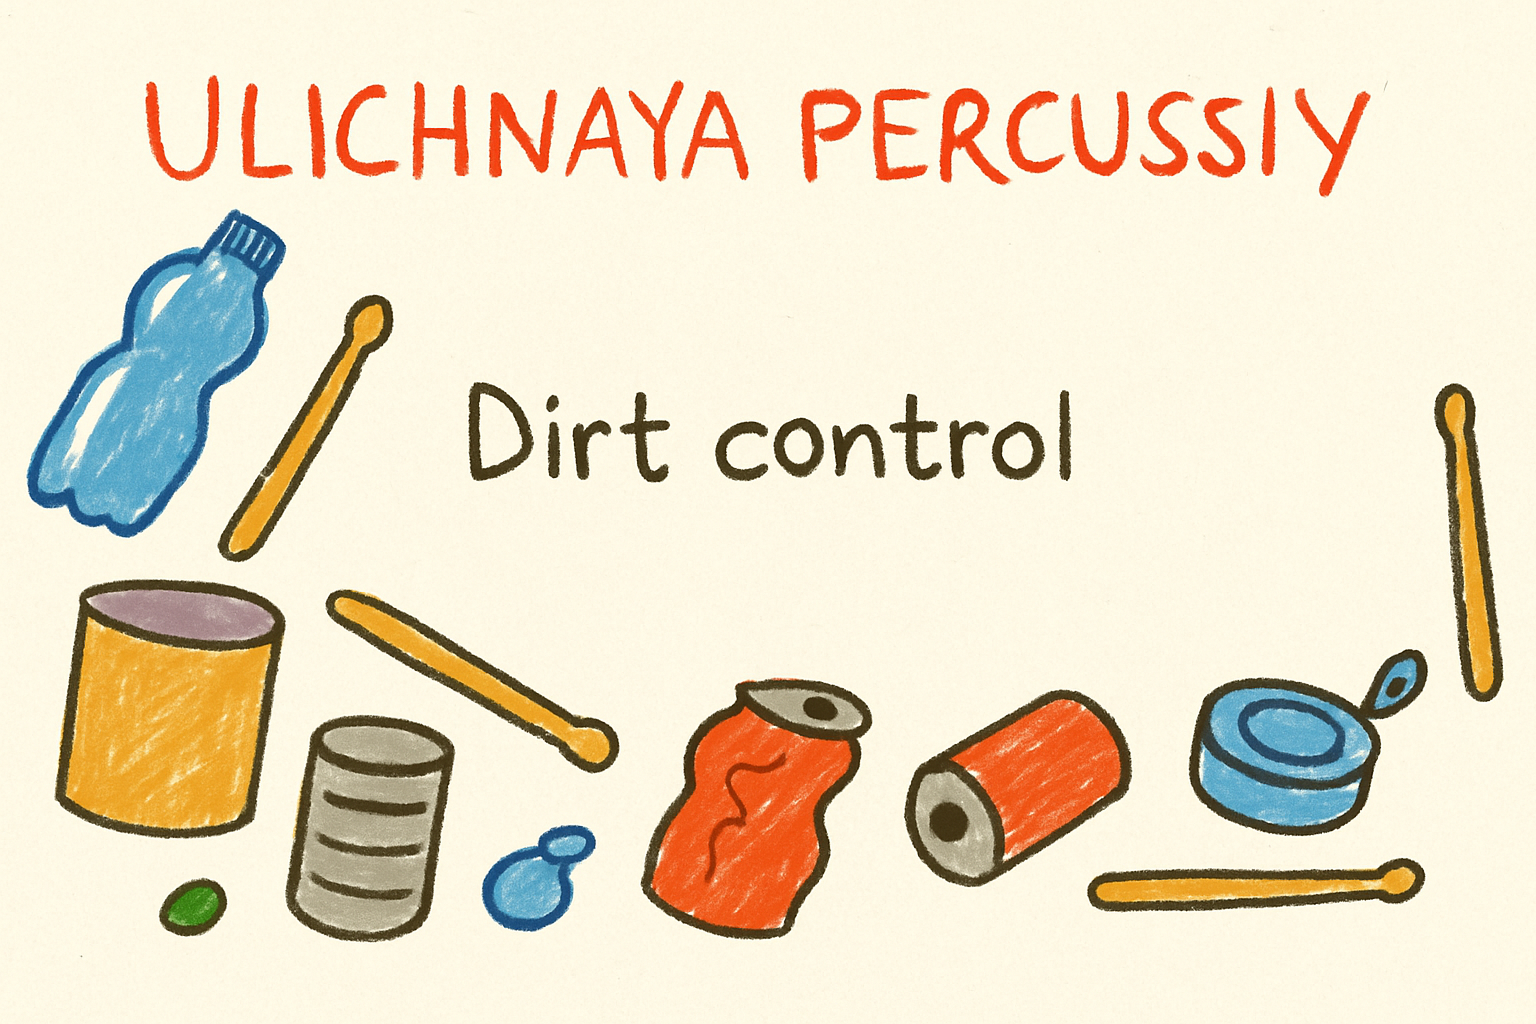
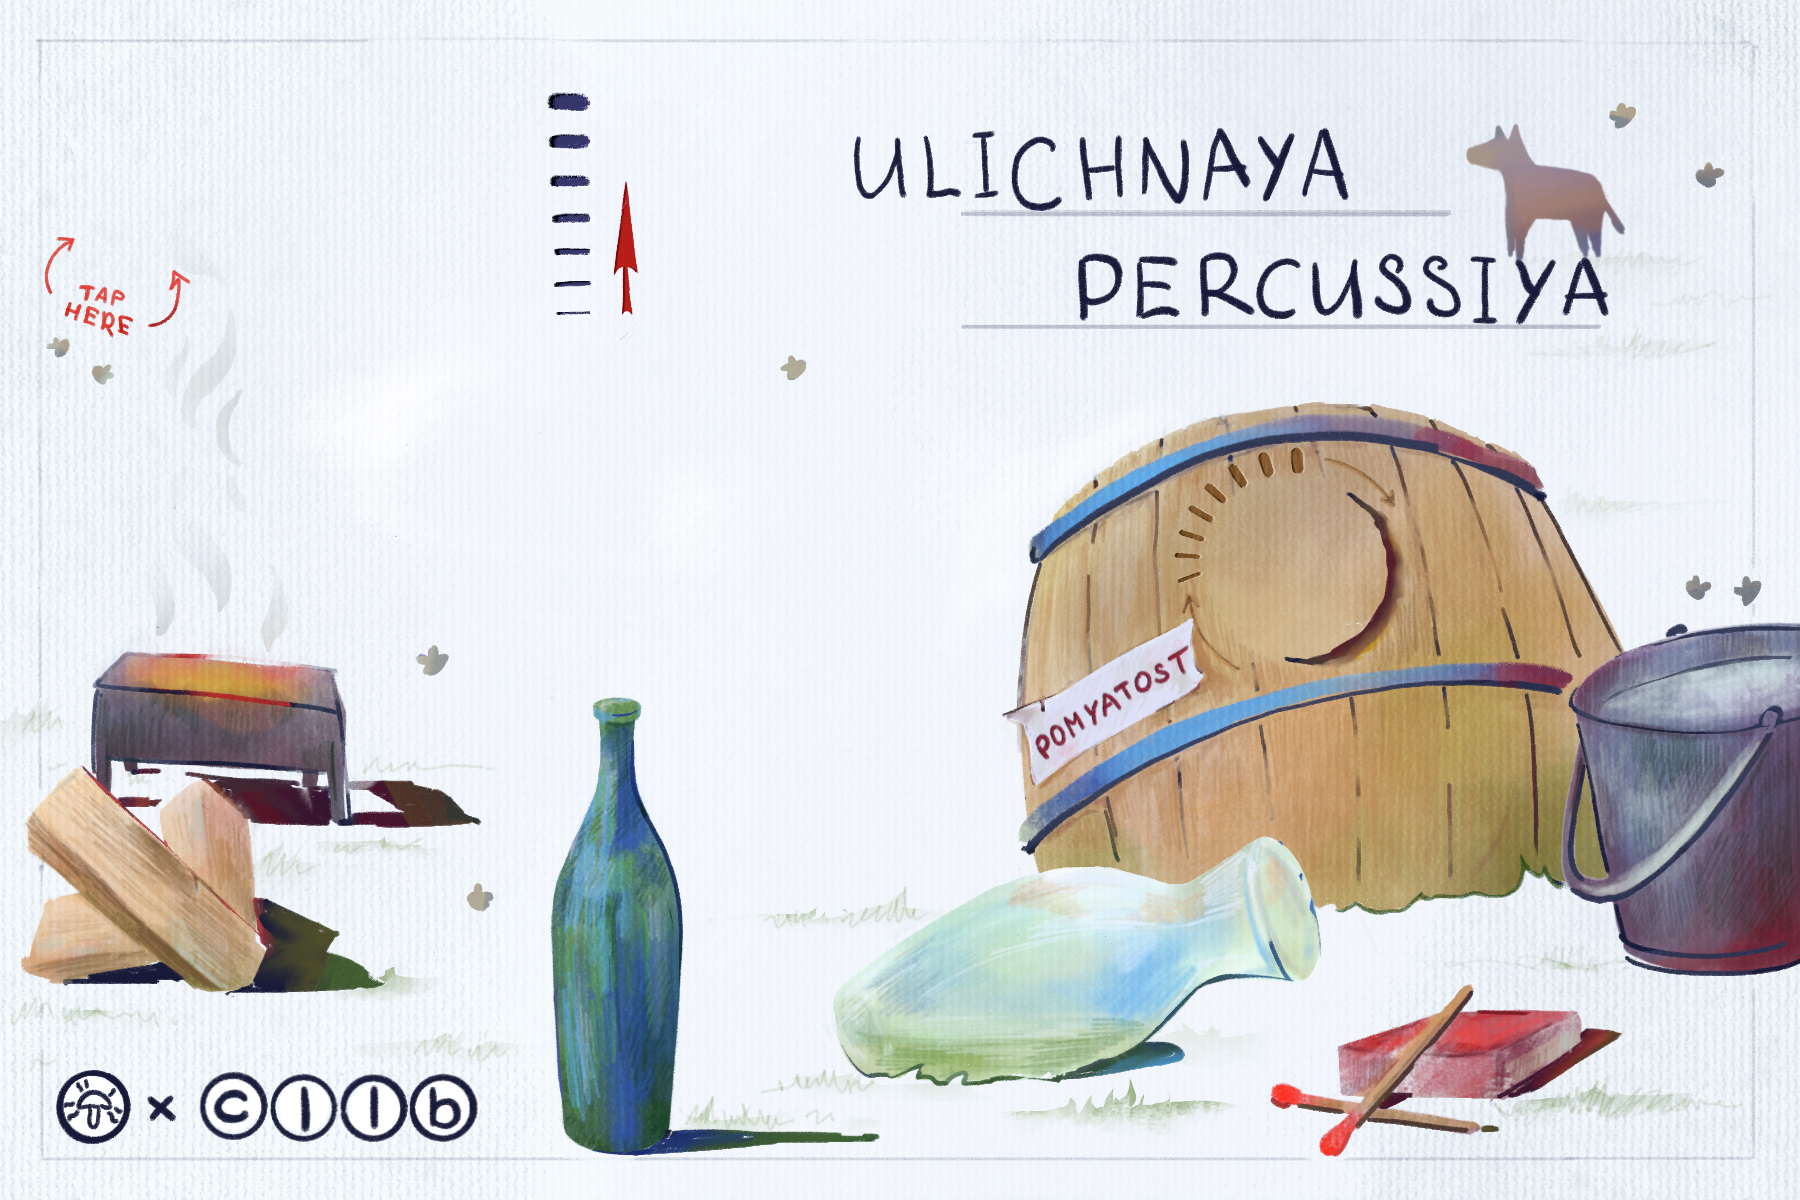
base bpm change

diff --git a/Source/MetaSamplerVoice.cpp b/Source/MetaSamplerVoice.cpp
@@ -78,7 +78,8 @@ void MetaSamplerVoice::startNote(int midiNoteNumber, float velocity,
         adsr.setSampleRate(playbackSR);
         adsr.noteOn();
 
-        // Enable Complex-style warp only for marked sounds, unless host BPM matches original (≈153)
+        // Enable Complex-style warp only for marked sounds, unless host BPM already matches
+        // the active warp base BPM (153 normally, 76.5 for host <= 90).
         const bool warpToggle = (warpEnabledParam != nullptr)
                                 && warpEnabledParam->load(std::memory_order_relaxed);
         const bool bpmIsMoving = (hostBpmMovingParam != nullptr)
@@ -86,8 +87,10 @@ void MetaSamplerVoice::startNote(int midiNoteNumber, float velocity,
         const double hostBpm = (hostBpmParam != nullptr)
                                  ? juce::jmax(1.0, hostBpmParam->load(std::memory_order_relaxed))
                                  : 0.0;
-        const double bpmDiff = std::abs(hostBpm - currentSound->getOriginalBpm());
-        const bool nearOriginalBpm = (hostBpmParam != nullptr && bpmDiff < 0.1); // treat ~153 as "no warp"
+        const double warpBaseBpm = MetaSamplerSound::warpBaseBpmForHost(currentSound->getOriginalBpm(),
+                                                                         hostBpm);
+        const double bpmDiff = std::abs(hostBpm - warpBaseBpm);
+        const bool nearOriginalBpm = (hostBpmParam != nullptr && bpmDiff < 0.1); // treat ~base BPM as "no warp"
 
         isWarping = (currentSound->isWarpEnabled() && hostBpmParam != nullptr && warpToggle && !nearOriginalBpm);
         isRealtimeWarping = false;
@@ -255,7 +258,7 @@ void MetaSamplerVoice::renderNextBlock(juce::AudioBuffer<float>& outputBuffer,
             const double hostBpm = (hostBpmParam != nullptr)
                                      ? juce::jmax(1.0, hostBpmParam->load(std::memory_order_relaxed))
                                      : currentSound->getOriginalBpm();
-            currentTimeRatio = currentSound->getOriginalBpm() / hostBpm;
+            currentTimeRatio = MetaSamplerSound::warpTimeRatioForHost(currentSound->getOriginalBpm(), hostBpm);
             rb->setTimeRatio(currentTimeRatio);
 
             const int initial = 4096;
@@ -295,7 +298,7 @@ void MetaSamplerVoice::renderNextBlock(juce::AudioBuffer<float>& outputBuffer,
     if (isRealtimeWarping && rb && hostBpmParam != nullptr)
     {
         const double hostBpm = juce::jmax(1.0, hostBpmParam->load(std::memory_order_relaxed));
-        const double ratio   = currentSound->getOriginalBpm() / hostBpm; // 153 / host
+        const double ratio   = MetaSamplerSound::warpTimeRatioForHost(currentSound->getOriginalBpm(), hostBpm);
 
         if (std::abs(ratio - currentTimeRatio) > 1e-6)
         {

diff --git a/Source/MetaSamplerSound.cpp b/Source/MetaSamplerSound.cpp
@@ -70,6 +70,22 @@ double MetaSamplerSound::quantizeWarpBpm(double hostBpm) noexcept
     return juce::jmax(1.0, hostBpm);
 }
 
+double MetaSamplerSound::warpBaseBpmForHost(double originalBpm, double hostBpm) noexcept
+{
+    const double safeOriginalBpm = juce::jmax(1.0, originalBpm);
+    const double safeHostBpm = juce::jmax(1.0, hostBpm);
+
+    // For very slow host tempos, switch to half-time anchor (153 -> 76.5)
+    // so loops speed up instead of stretching too far.
+    return (safeHostBpm <= 90.0) ? (safeOriginalBpm * 0.5) : safeOriginalBpm;
+}
+
+double MetaSamplerSound::warpTimeRatioForHost(double originalBpm, double hostBpm) noexcept
+{
+    const double safeHostBpm = juce::jmax(1.0, hostBpm);
+    return warpBaseBpmForHost(originalBpm, safeHostBpm) / safeHostBpm;
+}
+
 void MetaSamplerSound::setVelocityLayerInfo(int groupIndex,
                                             int groupCount,
                                             int minVelocity,
@@ -206,7 +222,7 @@ std::unique_ptr<MetaSamplerSound::WarpedCache> MetaSamplerSound::renderWarpedCac
     cache->sourceSampleRate = metadata->sampleRate > 0.0 ? metadata->sampleRate
                                                          : sourceSampleRate;
 
-    const double timeRatio = originalBpm / juce::jmax(1.0, hostBpm);
+    const double timeRatio = warpTimeRatioForHost(originalBpm, hostBpm);
     cache->timeRatio = timeRatio;
 
     const auto opts =

diff --git a/Source/MetaSamplerSound.h b/Source/MetaSamplerSound.h
@@ -50,6 +50,8 @@ public:
     double getOriginalBpm() const noexcept { return originalBpm; }
 
     static double quantizeWarpBpm(double hostBpm) noexcept;
+    static double warpBaseBpmForHost(double originalBpm, double hostBpm) noexcept;
+    static double warpTimeRatioForHost(double originalBpm, double hostBpm) noexcept;
 
     std::shared_ptr<WarpedCache> getWarpedCache(double hostBpm) const;
     void requestWarpedCacheBuild(double hostBpm) const;
